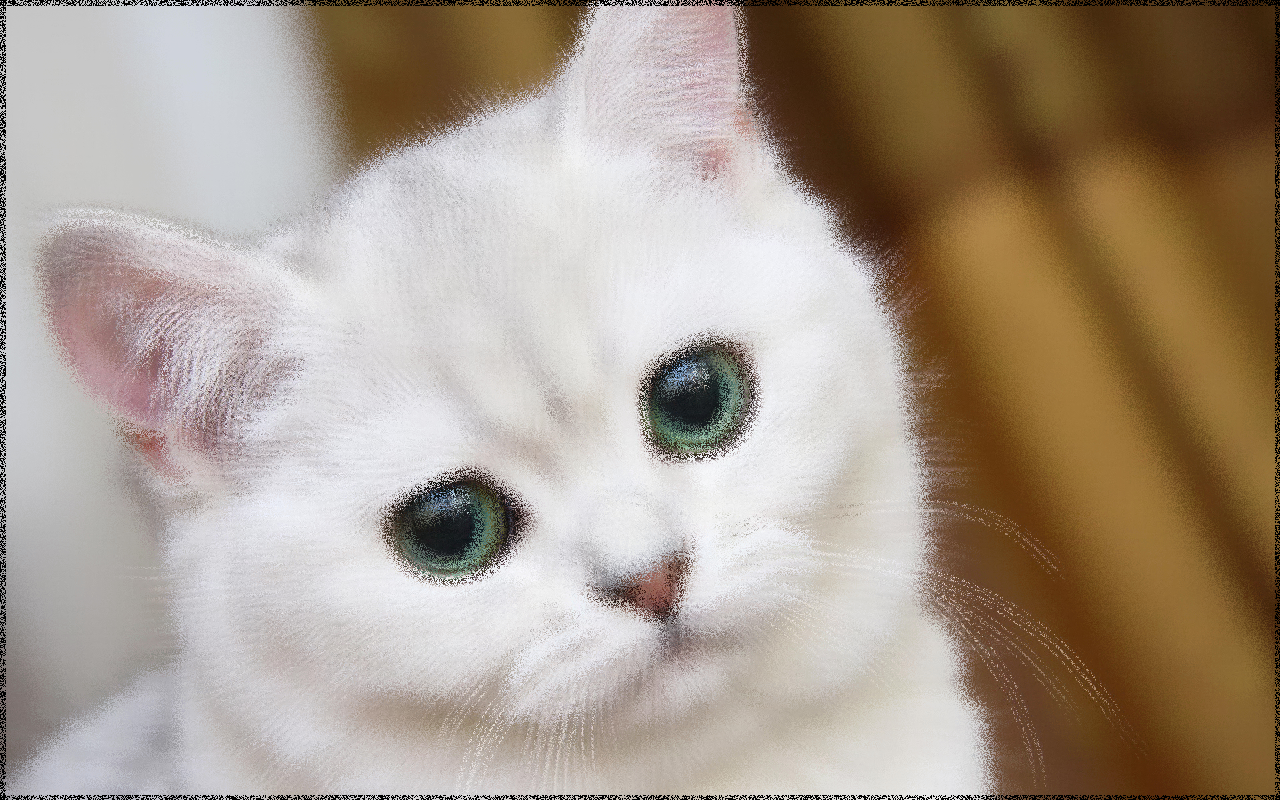
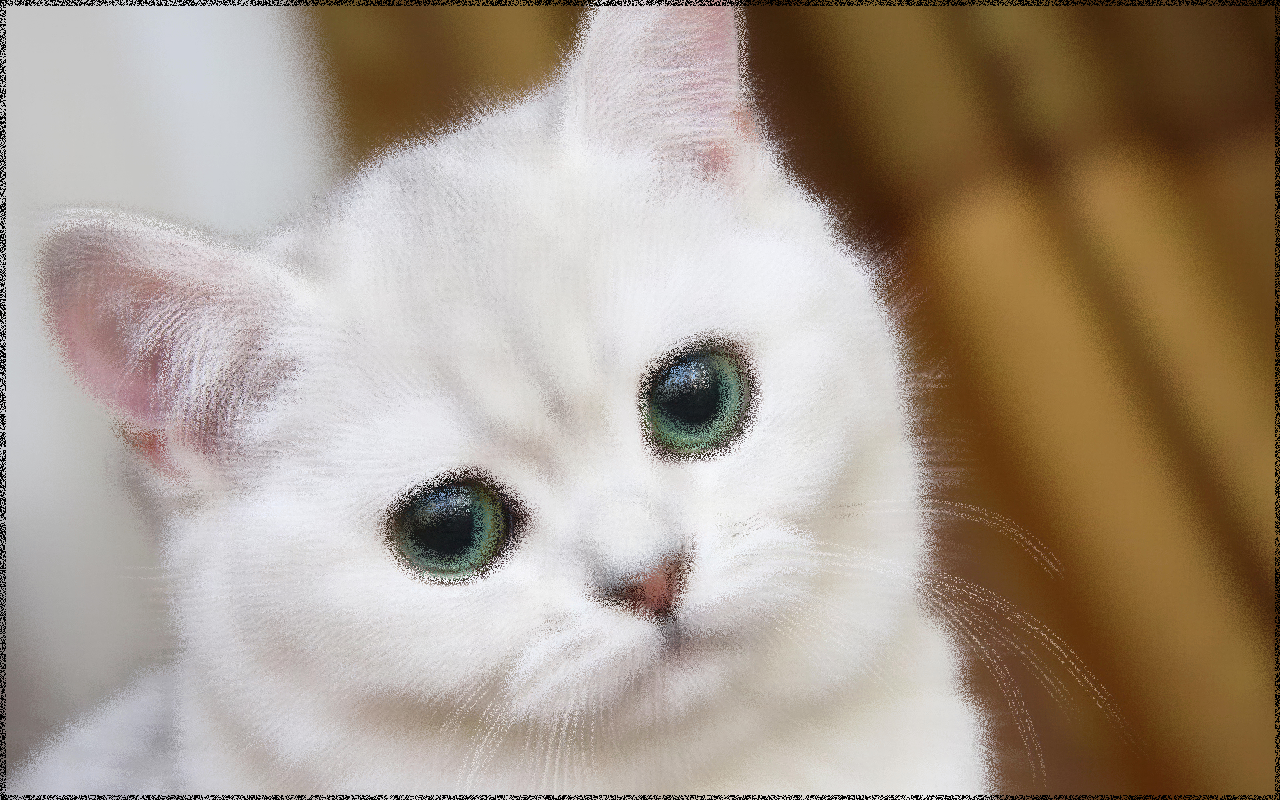
perfect reflector

diff --git a/Practice1/main.cpp b/Practice1/main.cpp
@@ -15,6 +15,8 @@
 #include "ShiftFilter.h"
 #include "WaveFilter.h"
 #include "GlassFilter.h"
+#include "GrayWorldFilter.h"
+#include "PerfectReflectorFilter.h"
 #include "BlurFilter.h"
 #include "MotionBlurFilter.h"
 #include "GaussianBlurFilter.h"
@@ -80,10 +82,14 @@ int main(int argc, char* argv[])
     std::cout << "Waved" << std::endl;
     QImage glassed_image = GlassFilter::calculateNewImagePixMap(image);
     std::cout << "Glassed" << std::endl;
+    QImage gray_world_image = GrayWorldFilter::calculateNewImagePixMap(image);
+    std::cout << "Gray world" << std::endl;
+    QImage perfect_reflector_image = PerfectReflectorFilter::calculateNewImagePixMap(image);
+    std::cout << "Perfect reflector" << std::endl;
     QImage blurred_image = blur_filter.calculateNewImagePixMap(image);
     std::cout << "Blured" << std::endl;
     QImage motion_blur_image = motion_blur_filter.calculateNewImagePixMap(image);
-    std::cout << "Motion Blur" << std::endl;
+    std::cout << "Motion blur" << std::endl;
     /*QImage gaussed_image = gaussian_blur_filter.calculateNewImagePixMap(image);
     std::cout << "Gaussed" << std::endl;
     QImage sobeled_image = sobel_filter.calculateNewImagePixMap(image);
@@ -114,8 +120,10 @@ int main(int argc, char* argv[])
     shifted_image.save("Output/Shifted.png");
     waved_image.save("Output/Waved.png");*/
     glassed_image.save("Output/Glassed.png");
+    gray_world_image.save("Output/Gray world.png");
+    perfect_reflector_image.save("Output/Perfect reflector.png");
     blurred_image.save("Output/Blurred.png");
-    motion_blur_image.save("Output/Motion Blur.png");
+    motion_blur_image.save("Output/Motion blur.png");
     /*gaussed_image.save("Output/Gaussed.png");
     sobeled_image.save("Output/Sobeled.png");
     sharped_image.save("Output/Sharped.png");

diff --git a/Practice1/GrayWorldFilter.cpp b/Practice1/GrayWorldFilter.cpp
@@ -1,0 +1,36 @@
+#include "GrayWorldFilter.h"
+
+QImage GrayWorldFilter::calculateNewImagePixMap(const QImage& image)
+{
+    QImage result(image);
+
+    double avg_r = 0, avg_g = 0, avg_b = 0, avg = 0, count = image.width() * image.height();
+    int result_r, result_g, result_b;
+
+    for (int x = 0; x < image.width(); x++)
+    {
+        for (int y = 0; y < image.height(); y++)
+        {
+            QColor image_color = image.pixelColor(x, y);
+            avg_r += image_color.red() / count;
+            avg_g += image_color.green() / count;
+            avg_b += image_color.blue() / count;
+        }
+    }
+    
+    avg = (avg_r + avg_g + avg_b) / 3;
+
+    for (int x = 0; x < image.width(); x++)
+        for (int y = 0; y < image.height(); y++)
+        {
+            QColor image_color = image.pixelColor(x, y);
+            result_r = clamp(image_color.red() * avg / avg_r, 255, 0);
+            result_g = clamp(image_color.green() * avg / avg_g, 255, 0);
+            result_b = clamp(image_color.blue() * avg / avg_b, 255, 0);
+
+            image_color.setRgb(result_r, result_g, result_b);
+            result.setPixelColor(x, y, image_color);
+        }
+
+    return result;
+}

diff --git a/Practice1/PerfectReflectorFilter.cpp b/Practice1/PerfectReflectorFilter.cpp
@@ -1,0 +1,35 @@
+#include "PerfectReflectorFilter.h"
+
+
+QImage PerfectReflectorFilter::calculateNewImagePixMap(const QImage& image)
+{
+    QImage result(image);
+
+    double max_r = 0, max_g = 0, max_b = 0;
+    int result_r, result_g, result_b;
+
+    for (int x = 0; x < image.width(); x++)
+    {
+        for (int y = 0; y < image.height(); y++)
+        {
+            QColor image_color = image.pixelColor(x, y);
+            if (image_color.red() > max_r) max_r = image_color.red();
+            if (image_color.green() > max_g) max_g = image_color.green();
+            if (image_color.blue() > max_b) max_b = image_color.blue();
+        }
+    }
+
+    for (int x = 0; x < image.width(); x++)
+        for (int y = 0; y < image.height(); y++)
+        {
+            QColor image_color = image.pixelColor(x, y);
+            result_r = clamp(image_color.red() * 255 / max_r, 255, 0);
+            result_g = clamp(image_color.green() * 255 / max_g, 255, 0);
+            result_b = clamp(image_color.blue() * 255 / max_b, 255, 0);
+
+            image_color.setRgb(result_r, result_g, result_b);
+            result.setPixelColor(x, y, image_color);
+        }
+
+    return result;
+}

diff --git a/Practice1/PerfectReflectorFilter.h b/Practice1/PerfectReflectorFilter.h
@@ -1,0 +1,14 @@
+#pragma once
+
+#include "Filter.h"
+
+
+class PerfectReflectorFilter : public Filter
+{
+public:
+    PerfectReflectorFilter() {};
+    ~PerfectReflectorFilter() {};
+
+    static QImage calculateNewImagePixMap(const QImage& image);
+};
+

diff --git a/Practice1/GrayWorldFilter.h b/Practice1/GrayWorldFilter.h
@@ -1,0 +1,14 @@
+#pragma once
+
+#include "Filter.h"
+
+
+class GrayWorldFilter : public Filter
+{
+public:
+    GrayWorldFilter() {};
+    ~GrayWorldFilter() {};
+
+    static QImage calculateNewImagePixMap(const QImage& image);
+};
+
